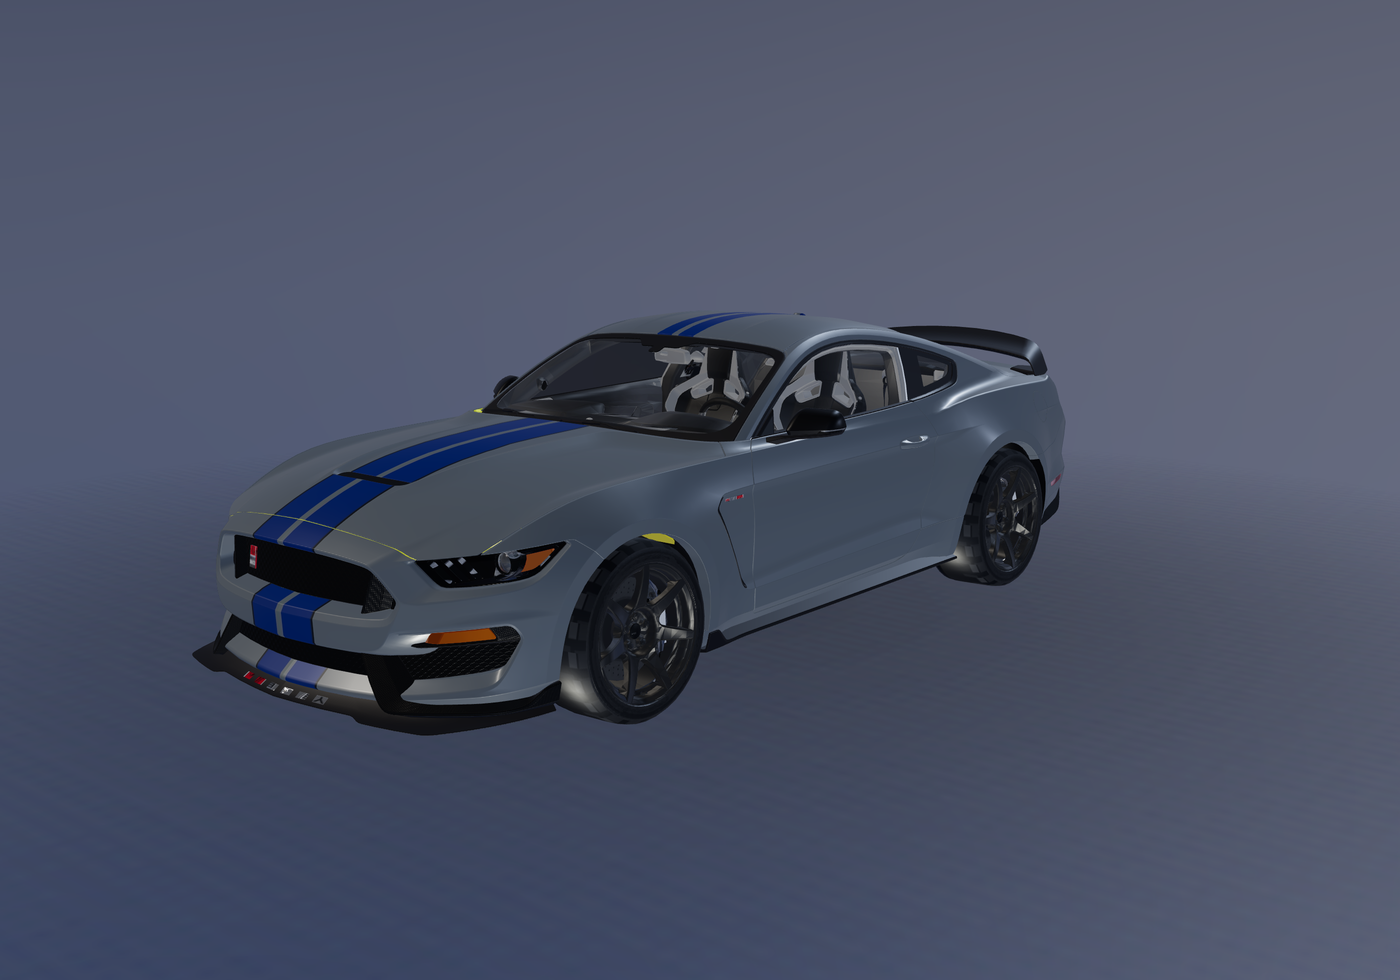
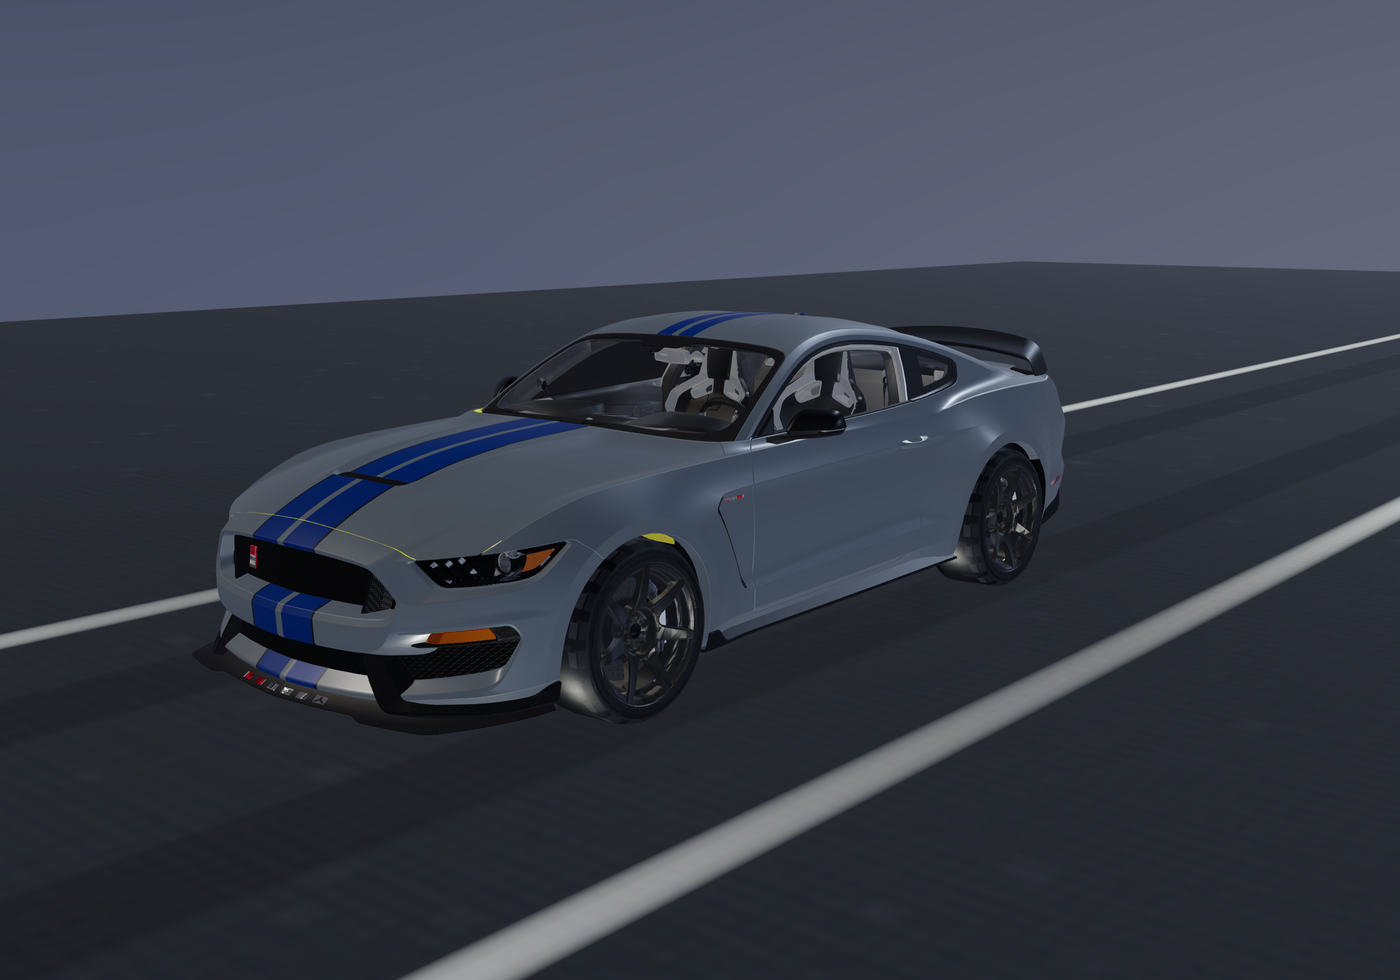
Put the Garage car on an actual road
Replace the empty ground under the car with a generated asphalt plane:
speckled grain, faint tire-wear paths, and a pair of lane edge lines a
car's width apart, lit like the rest of the scene rather than the flat
unlit disc the small contact shadow still uses. The sky backdrop stays
the same shared daylight HDR, now with a horizon instead of nothing
below it.

diff --git a/app/garage-scene.tsx b/app/garage-scene.tsx
@@ -43,6 +43,71 @@ function floorTexture(T: typeof import('@/lib/garage-three')) {
   return texture;
 }
 
+// A stretch of asphalt the car sits on, drawn on a canvas rather than
+// shipped as a photo -- same "generate it, don't fetch it" reasoning as
+// floorTexture above. The canvas's horizontal axis maps to the plane's
+// width (the car's X) and its vertical axis to the plane's length (the
+// car's Z, receding toward the horizon), so the lane lines below are drawn
+// as straight rectangles once rather than needing a seamless tiling
+// pattern; real 3D perspective foreshortens them correctly on its own.
+const ROAD_WIDTH = 40;
+const ROAD_LENGTH = 80;
+const ROAD_PX_PER_METER = 20;
+
+function roadTexture(T: typeof import('@/lib/garage-three')) {
+  const width = ROAD_WIDTH * ROAD_PX_PER_METER;
+  const height = ROAD_LENGTH * ROAD_PX_PER_METER;
+  const canvas = document.createElement('canvas');
+  canvas.width = width;
+  canvas.height = height;
+  const ctx = canvas.getContext('2d');
+  if (!ctx) return null;
+  const base = ctx.createLinearGradient(0, 0, 0, height);
+  base.addColorStop(0, '#3b3e43');
+  base.addColorStop(1, '#292b2f');
+  ctx.fillStyle = base;
+  ctx.fillRect(0, 0, width, height);
+  // Aggregate speckle: a scatter of small flecks reads as asphalt grain
+  // much faster than a per-pixel noise pass, and looks more like real
+  // aggregate than uniform static would.
+  for (let i = 0; i < 6000; i++) {
+    const gray = 40 + Math.random() * 60;
+    ctx.fillStyle = `rgba(${gray},${gray},${gray + 4},${0.15 + Math.random() * 0.2})`;
+    const size = 1 + Math.random() * 2;
+    ctx.fillRect(Math.random() * width, Math.random() * height, size, size);
+  }
+  // Faint tire-wear paths, a shade darker than the surrounding asphalt.
+  ctx.globalAlpha = 0.16;
+  ctx.fillStyle = '#000000';
+  const trackOffset = 0.85 * ROAD_PX_PER_METER;
+  const trackWidth = 0.5 * ROAD_PX_PER_METER;
+  for (const sign of [-1, 1]) {
+    ctx.fillRect(
+      width / 2 + sign * trackOffset - trackWidth / 2,
+      0,
+      trackWidth,
+      height,
+    );
+  }
+  ctx.globalAlpha = 1;
+  // Sun-faded lane edge lines, a car's width apart plus a little clearance.
+  ctx.fillStyle = '#c9c9c0';
+  const laneHalfWidth = 1.9 * ROAD_PX_PER_METER;
+  const lineWidth = 0.18 * ROAD_PX_PER_METER;
+  for (const sign of [-1, 1]) {
+    ctx.fillRect(
+      width / 2 + sign * laneHalfWidth - lineWidth / 2,
+      0,
+      lineWidth,
+      height,
+    );
+  }
+  const texture = new T.Texture(canvas);
+  texture.needsUpdate = true;
+  texture.colorSpace = T.SRGBColorSpace;
+  return texture;
+}
+
 const fetchAsset = async (path: string, signal: AbortSignal) => {
   const response = await fetch(sceneAsset(path), {
     signal: AbortSignal.any([signal, AbortSignal.timeout(25000)]),
@@ -279,8 +344,32 @@ export default function GarageScene({ reducedMotion, onStatus }: Props) {
         mesh.material = finish;
         materials.add(finish);
       });
+      const road = roadTexture(T);
+      if (road) {
+        // The speckled grain aliases into a moire pattern at the shallow
+        // viewing angles a ground plane is seen at without this -- the
+        // GLB's own textures don't need it (the car's never seen edge-on).
+        road.anisotropy = r.capabilities.getMaxAnisotropy();
+        const asphalt = new T.Mesh(
+          new T.PlaneGeometry(ROAD_WIDTH, ROAD_LENGTH),
+          new T.MeshStandardMaterial({
+            map: road,
+            roughness: 0.95,
+            metalness: 0.02,
+          }),
+        );
+        asphalt.rotation.x = -Math.PI / 2;
+        scene.add(asphalt);
+        geometries.add(asphalt.geometry);
+        materials.add(asphalt.material);
+        textures.add(road);
+      }
       const floor = floorTexture(T);
       if (floor) {
+        // A soft contact shadow layered just above the asphalt, not a
+        // stand-in for the ground itself now that the road plane above is
+        // the actual surface -- without it the car reads as resting near
+        // the road rather than on it.
         const ground = new T.Mesh(
           new T.CircleGeometry(5.5, 48),
           new T.MeshBasicMaterial({

diff --git a/lib/garage-three.ts b/lib/garage-three.ts
@@ -13,6 +13,7 @@ export {
   MeshPhysicalMaterial,
   MeshStandardMaterial,
   PerspectiveCamera,
+  PlaneGeometry,
   PMREMGenerator,
   RGBAFormat,
   Scene,

diff --git a/ASSETS.md b/ASSETS.md
@@ -19,6 +19,7 @@
 - The mirror caps are part of the body-paint mesh, and by coincidence of their UV unwrap land inside the same V-band the hood/roof stripe uses — rendering them stripe-blue rather than black. Not spatially separable from the body (the mesh is topologically continuous with the fender, no 3D gap to bound), so they're isolated by a combined filter instead — outboard position _and_ stripe-band UV, verified to isolate exactly two clean, symmetric clusters (404 triangles) — and split into their own flat-black `MirrorCap_black` primitive.
 - The roof skin rendered as one solid stripe-blue panel edge to edge, no gray at all — not a recolor bug but the source artist's own UV layout for that one panel, which gives the "stripe" swatch cell nearly the whole roof (verified by sampling the actual texture at the roof's UVs, bucketed by world X: stripe-cell coverage runs to roughly half the roof's own width, versus a narrow band on the hood sampled the same way). A texture recolor can't fix a per-panel UV choice, so the roof is instead re-split by world position into `RoofPaint_stripe` and `RoofPaint_gray`, both carrying "Paint" in their name so the viewer's clearcoat upgrade still applies to them. The first attempt classified whole triangles by centroid at the hood's own stripe offset; that produced either a jagged sawtooth edge (part of this panel's own triangulation is a coarse, several-centimetre diagonal fan the boundary happened to cut through) or, at a boundary wide enough to dodge the fan, a stripe so wide it read as a two-tone panel rather than a stripe next to the hood's much narrower one. `split_at_plane`/`split_bands` in `prepare-garage-car.py` fix both problems at once: they clip the straddling triangles themselves at the exact x boundary (interpolating position/normal/UV at the cut, Sutherland-Hodgman style), so the edge is clean regardless of the source mesh's local resolution, which in turn makes it safe to pick a narrower, more proportionate width and even reproduce the hood's thin gray gap between its two stripes — both were previously blocked by the coarse geometry, not by the classification logic.
 - Interior (42,851 triangles) and engine bay (13,625 triangles) are the two largest remaining chunks and the first candidates to prune if the Garage viewer stays exterior-only and wants a smaller download; nothing has been pruned so far.
+- The ground is a 40×80m asphalt plane, drawn on a canvas at runtime rather than shipped as a photo (`roadTexture` in `garage-scene.tsx`, the same "generate it, don't fetch it" call as the sky's cloud-shadow noise and this viewer's own contact-shadow disc): a speckled aggregate scatter, two faint darker tire-wear paths, and two sun-faded lane edge lines a car's width apart. The canvas's two axes are deliberately not symmetric (tall rather than square) so the lane lines are drawn once as straight rectangles running the plane's length, with real 3D perspective foreshortening them correctly rather than needing a seamless tiling pattern. `MeshStandardMaterial` (not the flat, unlit material the small contact-shadow disc still uses) so it actually responds to the scene's lights; anisotropic filtering is set explicitly since the speckle grain aliased into a visible moiré at the shallow angle a ground plane is seen at, which none of this viewer's other textures needed.
 - `public/images/garage-gt350r.png`/`.avif`: the poster shown before the interactive viewer loads (and for reduced-motion visitors), rendered from the finished GLB at the viewer's own default camera angle and lighting so it matches the live scene exactly rather than crossfading into a different look.
 
 ## Preserved earlier scenery
